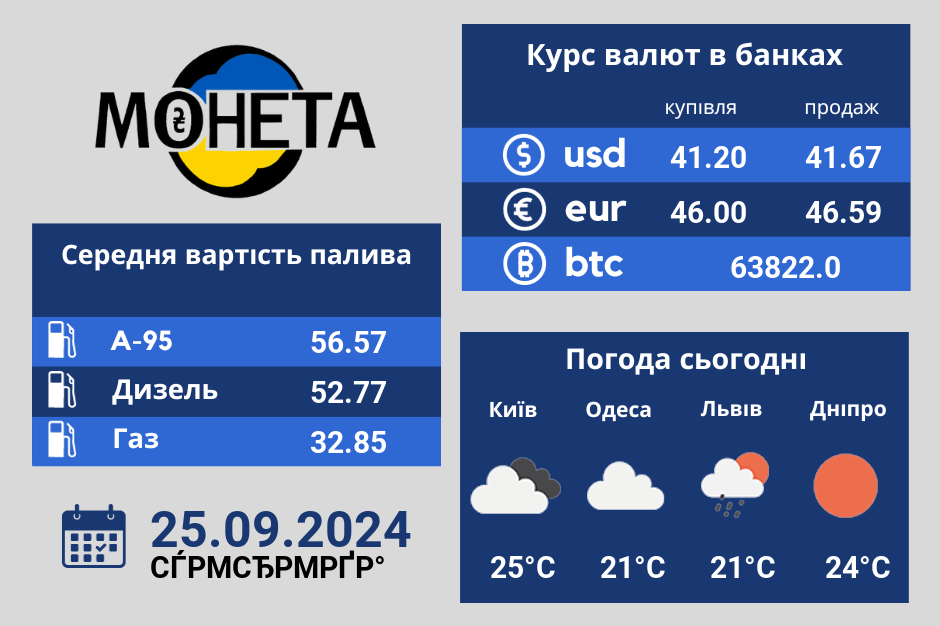
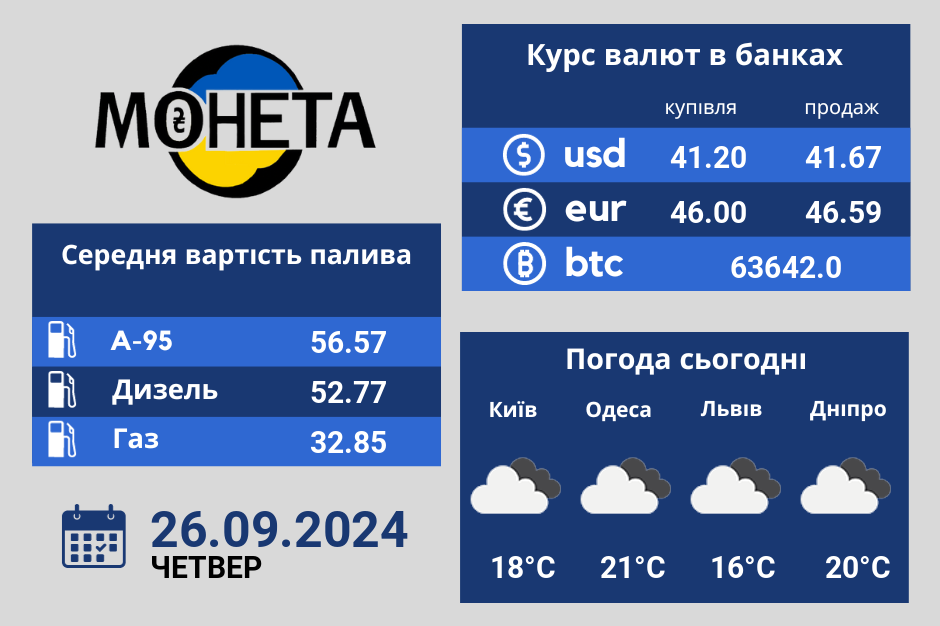
update 26 09

diff --git a/chat_text_gen.py b/chat_text_gen.py
@@ -4,15 +4,8 @@ from datetime import datetime
 
 today_date = datetime.now().strftime('%d.%m.%Y')
 
-part1 = "sk-proj-bY2mudDeG2ZSTnBK6jn4bMfH-K6pCiA8hlazQaqX_"
-part2 = "9P5rnbDitIKWK8BiG5mW-5z6Ews8m3hljT3BlbkFJx7mhxQOxJFbu2p-nASlKt4u"
-part3 = "SjNJVovVq08TEQl9h4FzF7B1h497INjw6r3wTCZxmkUWW7K1IQA"
 
-api_key = part1+part2+part3
-
-subprocess.run(['export', f'OPENAI_API_KEY="{api_key}"'], shell=True)
-
-client = OpenAI(api_key=part1+part2+part3)
+client = OpenAI(organization='org-L0Oyq5kJnJCIAegLaemNPNJF', project='proj_UTFWrJ6G78ykIRFNjeduCGCm')
 
 
 def create_text():
